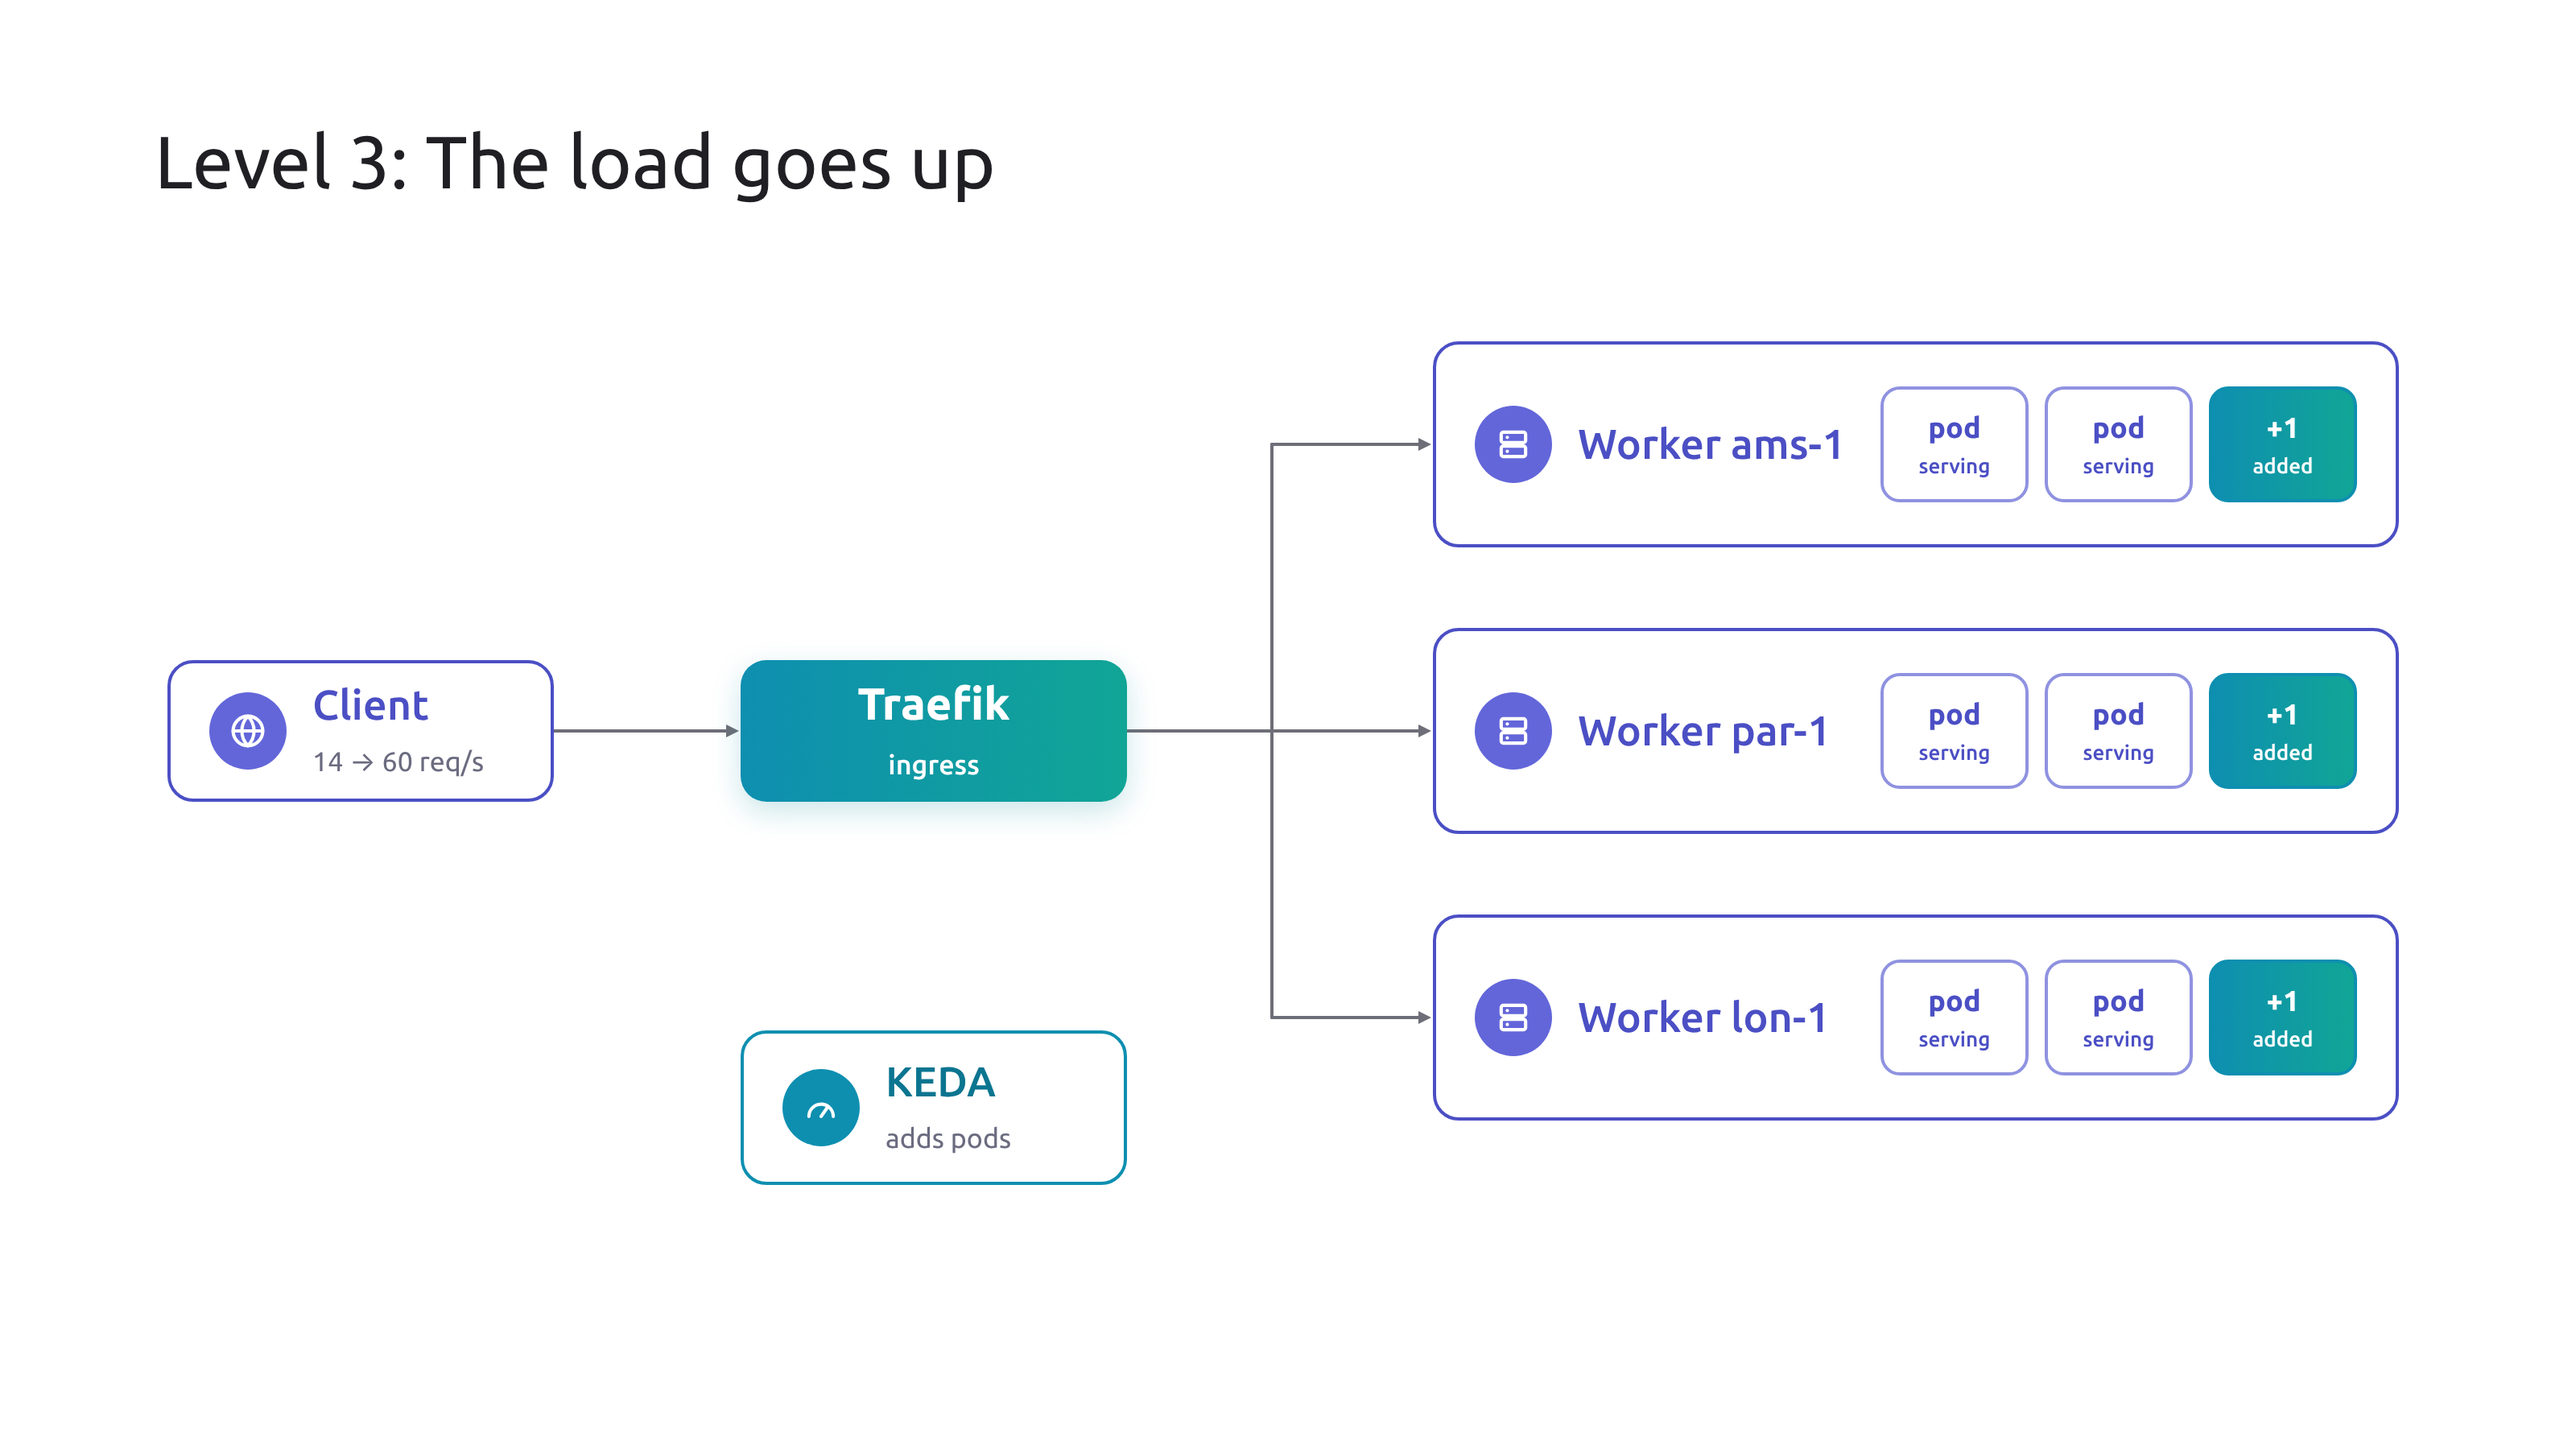
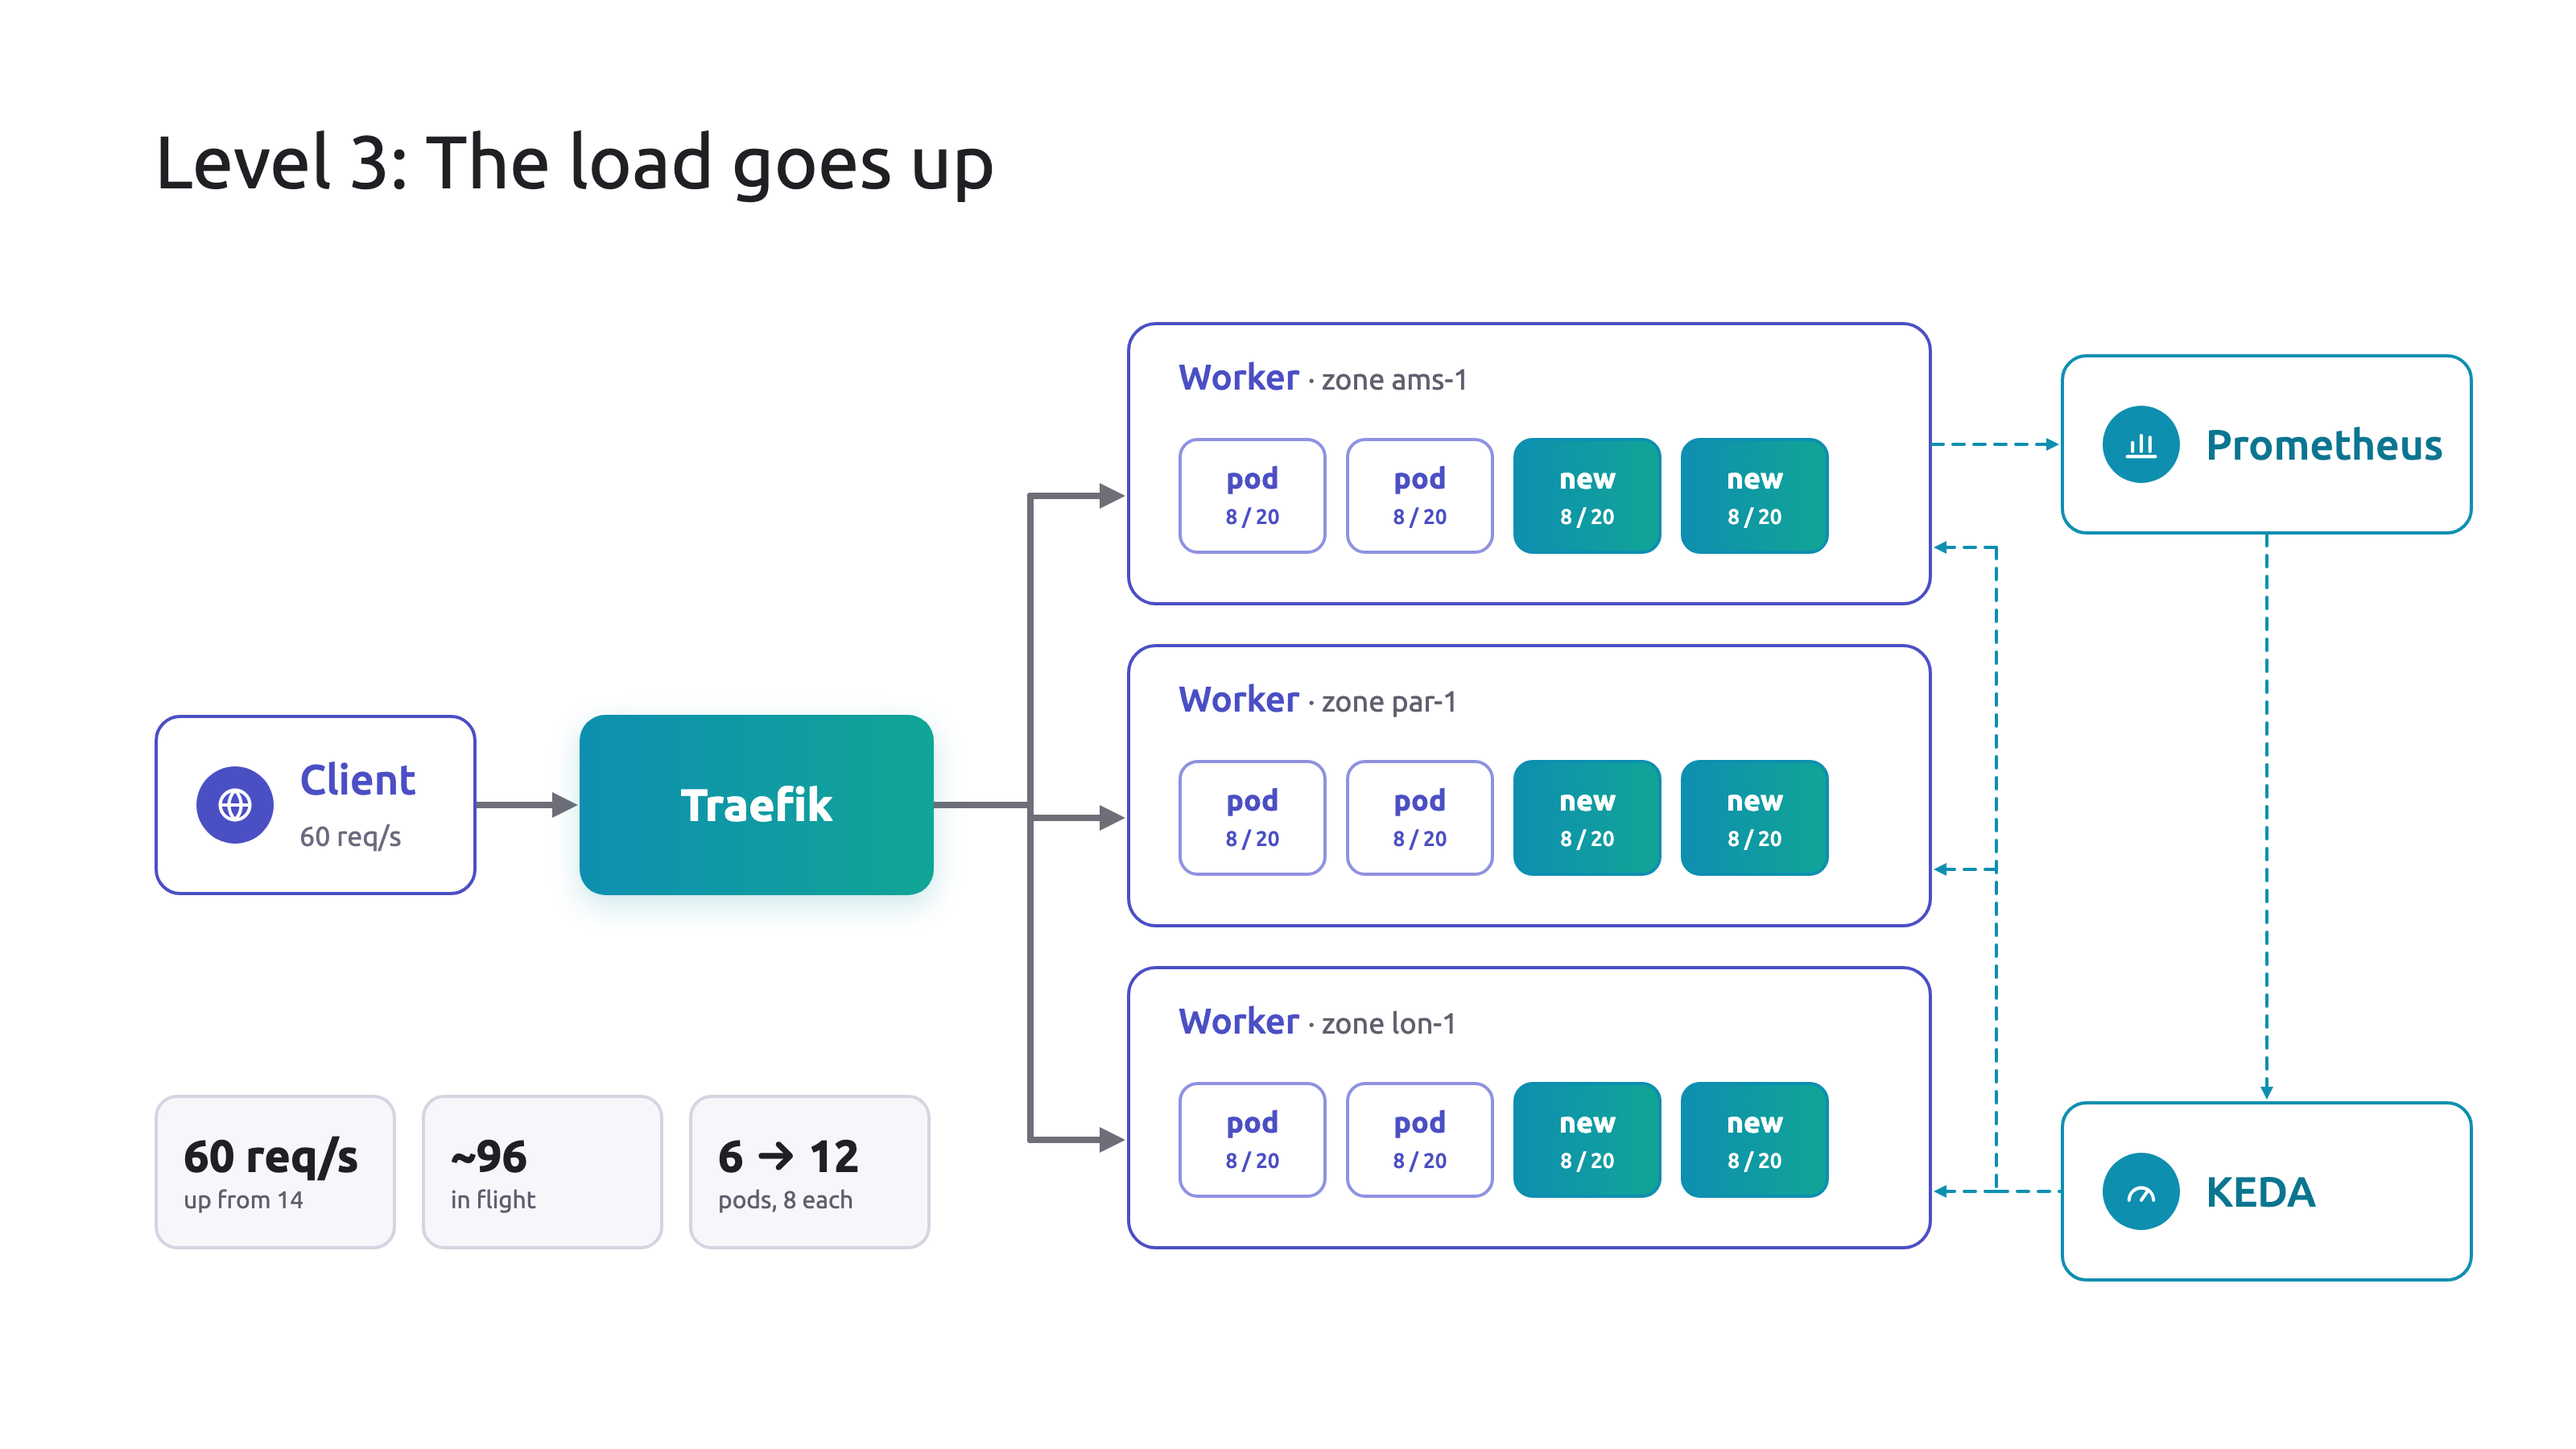
Use the updated slides for the README images

diff --git a/README.md b/README.md
@@ -113,8 +113,6 @@ quarantines the supplied grader, remove that flag with
 
 ![Level 3: The load goes up](docs/images/level-3-load-spike.png)
 
-The image shows one extra pod per zone for simplicity. The measured peak was 12-13 pods.
-
 - The grader raises the load from 14 to 60 req/s over 1 minute, holds 60 req/s for 1 minute, then drops back to 14 req/s over 30s. The number of pods must go up.
 - Each request takes 0.2–3s (about 1.6s on average), so 60 req/s means about 96 requests in flight. Each pod handles 20 at once, so we need at least 5 pods with zero headroom.
 - With a fixed pod count, pods go over 20 in flight and reject the rest (503).
